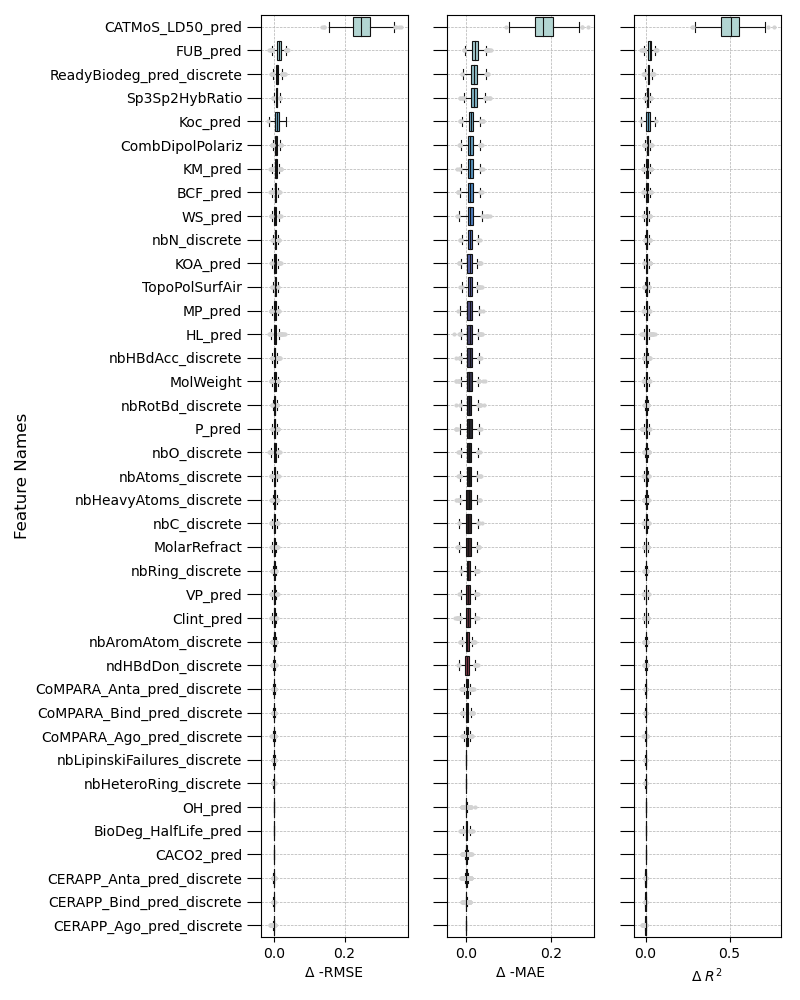
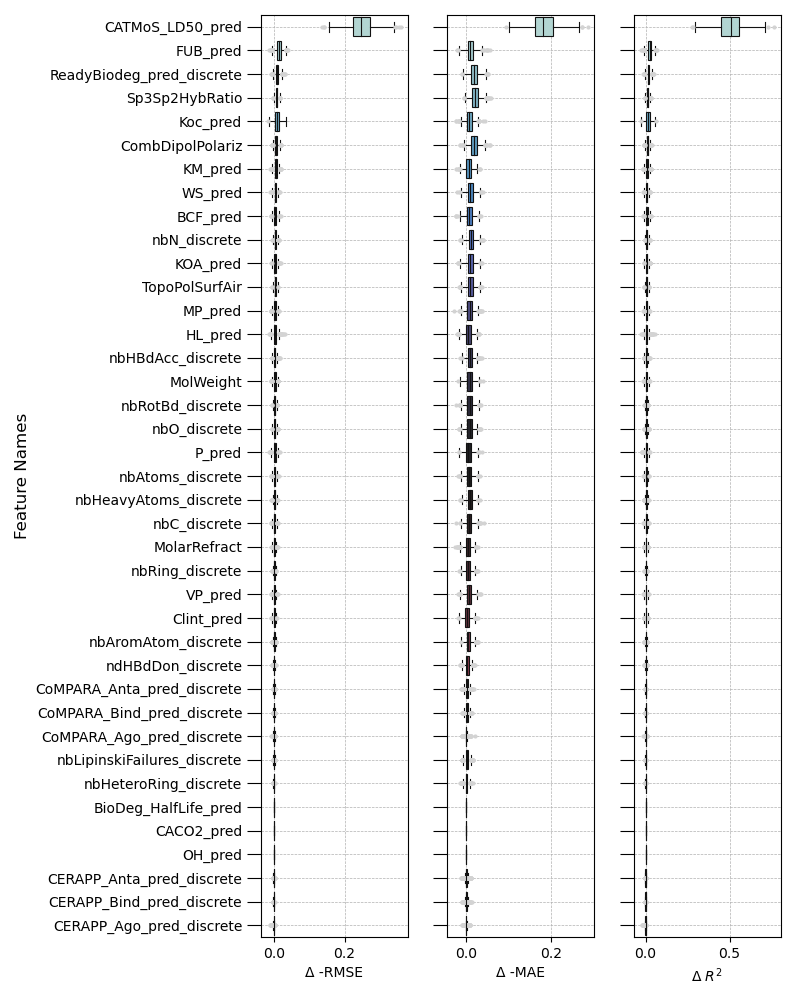
Fix bug: Incorrect sort order in vertical boxplot

diff --git a/plot.py b/plot.py
@@ -1033,37 +1033,55 @@ def vertical_boxplots_subplot(
     Returns
     -------
     None : None
-    '''    
-    for i, (k, xlabel) in enumerate(
-        evaluation_label_mapper.items(), start=start):
+    '''
+    # Compute the sorting order based on the median of the first metric
+    first_metric_key = list(evaluation_label_mapper.keys())[0]
+    medians_first_metric = (
+        df_wide.xs(first_metric_key, axis=1, level=evaluation_level)
+        .median(axis=0)
+        .sort_values(ascending=False)
+    )
+    sorted_keys_first_metric = list(medians_first_metric.index)
 
-        # Compute median and sort by it
+    for i, (k, xlabel) in enumerate(
+            evaluation_label_mapper.items(), start=start):
+        
         df_long = df_wide.xs(k, axis=1, level=evaluation_level).melt()
-    
-        sorted_vertical_boxplot(
+        
+        # Use the sorting order from the first metric
+        df_long[sorting_level] = pd.Categorical(
+            df_long[sorting_level], 
+            categories=sorted_keys_first_metric, 
+            ordered=True
+            )
+        df_long = df_long.sort_values(by=sorting_level)
+        
+        _sns_boxplot_wrapper(
             axs[i], 
-            df_long,
-            sorting_level,
+            df_long, 
             xlabel=xlabel, 
-            palette=palette 
-        )
+            palette=palette
+            )
 
         if xlim:
             axs[i].set_xlim(xlim)
+        # # Ensure only the first Axes has y-tick labels
+        # if i > 0:
+        #     axs[i].set_yticklabels([])
 
     if ylabel:
         # Set ylabel, first column only.
         for i, ax in enumerate(axs.flatten()):
             ax.tick_params(axis='y', size=10)
             if i == 0:
-                ax.set_ylabel(ylabel, size=12)    
+                ax.set_ylabel(ylabel, size=12) 
+   
 #endregion
 
-#region: sorted_vertical_boxplot
-def sorted_vertical_boxplot(
+#region: _sns_boxplot_wrapper
+def _sns_boxplot_wrapper(
         ax, 
         df_long, 
-        sorting_level,
         xlabel='',
         ylabel='', 
         title='',
@@ -1071,20 +1089,6 @@ def sorted_vertical_boxplot(
         ):
     '''Wrapper around seaborn.boxplot() with customization.
     '''
-    medians = (
-        df_long.groupby(sorting_level)['value']
-        .median()
-        .sort_values(ascending=False)
-    )
-    sorted_keys = medians.index.tolist()
-
-    # Sort DataFrame by median
-    df_long[sorting_level] = pd.Categorical(
-        df_long[sorting_level], 
-        categories=sorted_keys, ordered=True
-        )
-    df_long.sort_values(by=sorting_level, inplace=True)
-
     y, x = list(df_long.columns)
     
     sns.boxplot(    
